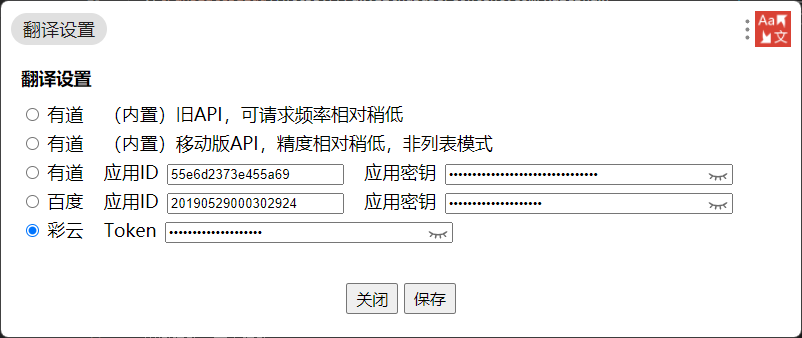
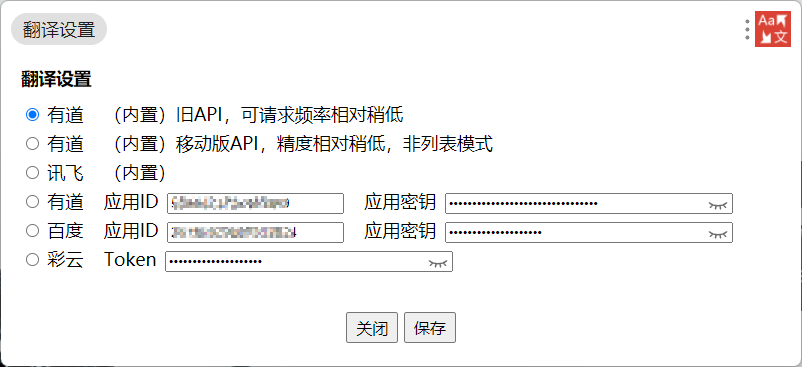
Add XunFei API

diff --git a/assets/js/xunFei.js b/assets/js/xunFei.js
@@ -1,0 +1,37 @@
+async function lookUpXunFei(word) {
+  let data = [];
+  const api = options.xunFei.api;
+
+  const flag = isChinese(word);
+  const source = flag ? "cn" : "en";
+  const target = flag ? "en" : "cn";
+
+  const wordArray = CryptoJS.enc.Utf8.parse(word);
+  const base64Str = CryptoJS.enc.Base64.stringify(wordArray);
+
+  let form = new URLSearchParams();
+  form.append("from", source);
+  form.append("to", target);
+  form.append("text", base64Str);
+
+  let response = await xunFeiPost(api, form);
+  let err = response.flag;
+  if (err) {
+    const tran = response?.data?.result?.trans_result?.dst;
+    if (tran) {
+      const phoneticEn = getPhoneticEn(word);
+      const phoneticUs = getPhoneticUs(word);
+      let dataTitle = `<span class="translation">${tran}</span><span>英</span>${phoneticEn}<span>美</span>${phoneticUs}`;
+      data.push({
+        title: dataTitle,
+        description: "基本释义",
+      });
+    }
+  } else {
+    data.push({
+      title: errTitle,
+      description: "翻译错误",
+    });
+  }
+  return data;
+}

diff --git a/index.html b/index.html
@@ -48,6 +48,13 @@
         </div>
         <div class="service">
           <label>
+            <input name="service" type="radio" value="xunFei" />
+            讯飞
+          </label>
+          <span>（内置）</span>
+        </div>
+        <div class="service">
+          <label>
             <input name="service" type="radio" value="youDao" />
             有道
           </label>
@@ -91,6 +98,7 @@
     <script src="assets/js/youDao.js"></script>
     <script src="assets/js/baiDu.js"></script>
     <script src="assets/js/caiYun.js"></script>
+    <script src="assets/js/xunFei.js"></script>
     <script src="assets/js/setting.js"></script>
     <script src="assets/js/index.js"></script>
   </body>

diff --git a/assets/js/utils.js b/assets/js/utils.js
@@ -62,6 +62,26 @@ function caiYunPost(url, body, headers) {
   });
 }
 
+function xunFeiPost(url, form) {
+  return new Promise((resolve, reject) => {
+    fetch(url, {
+      method: "POST",
+      headers: {
+        "Content-Type": "application/x-www-form-urlencoded; charset=UTF-8",
+      },
+      mode: "cors",
+      body: form,
+    })
+      .then(res => {
+        resolve(res.json());
+      })
+      .catch(e => {
+        console.error(e);
+        reject({ errorCode: errorCodeOther, message: e });
+      });
+  });
+}
+
 function stringify(obj) {
   return Object.keys(obj)
     .map(key => {

diff --git a/assets/js/setting.js b/assets/js/setting.js
@@ -19,10 +19,14 @@ const options = {
     name: "彩云小译",
     api: "http://api.interpreter.caiyunai.com/v1/translator",
   },
+  xunFei: {
+    name: "讯飞",
+    api: "https://saas.xfyun.cn/ai-application/trans/its",
+  },
 };
 
 // 设置窗口的高度。
-const settingHeight = 135 + 29 * 5;
+const settingHeight = 135 + 29 * 6;
 
 const errMsgEmptyApp = "应用ID或密钥不能为空！";
 

diff --git a/README.md b/README.md
@@ -55,7 +55,7 @@ uTools 插件 - 翻译
 
 - 有道词典
 
-  http://fanyi.youdao.com
+  <http://fanyi.youdao.com>
 
   官方提示此版本API已经停用，但经测试现还能使用。
 
@@ -63,19 +63,25 @@ uTools 插件 - 翻译
 
 - 有道词典
 
-  https://m.youdao.com
+  <https://m.youdao.com>
 
   属于移动端网页API，精准度不是非常高。
 
+- 讯飞
+
+  <https://saas.xfyun.cn/ai-application/trans/its>
+
+  翻译内容较少，仅有基本翻译。
+
 - 有道翻译
 
-  http://openapi.youdao.com/api
+  <http://openapi.youdao.com/api>
 
   需要到[有道智云官网](https://ai.youdao.com/doc.s)申请获取应用ID和应用密钥。
 
 - 百度翻译
 
-  https://fanyi-api.baidu.com/api/trans/vip/translate
+  <https://fanyi-api.baidu.com/api/trans/vip/translate>
 
   翻译内容较少，仅有基本翻译。
 
@@ -83,7 +89,7 @@ uTools 插件 - 翻译
 
 - 彩云小译
 
-  http://api.interpreter.caiyunai.com/v1/translator
+  <http://api.interpreter.caiyunai.com/v1/translator>
 
   翻译内容较少，仅有基本翻译。
 
